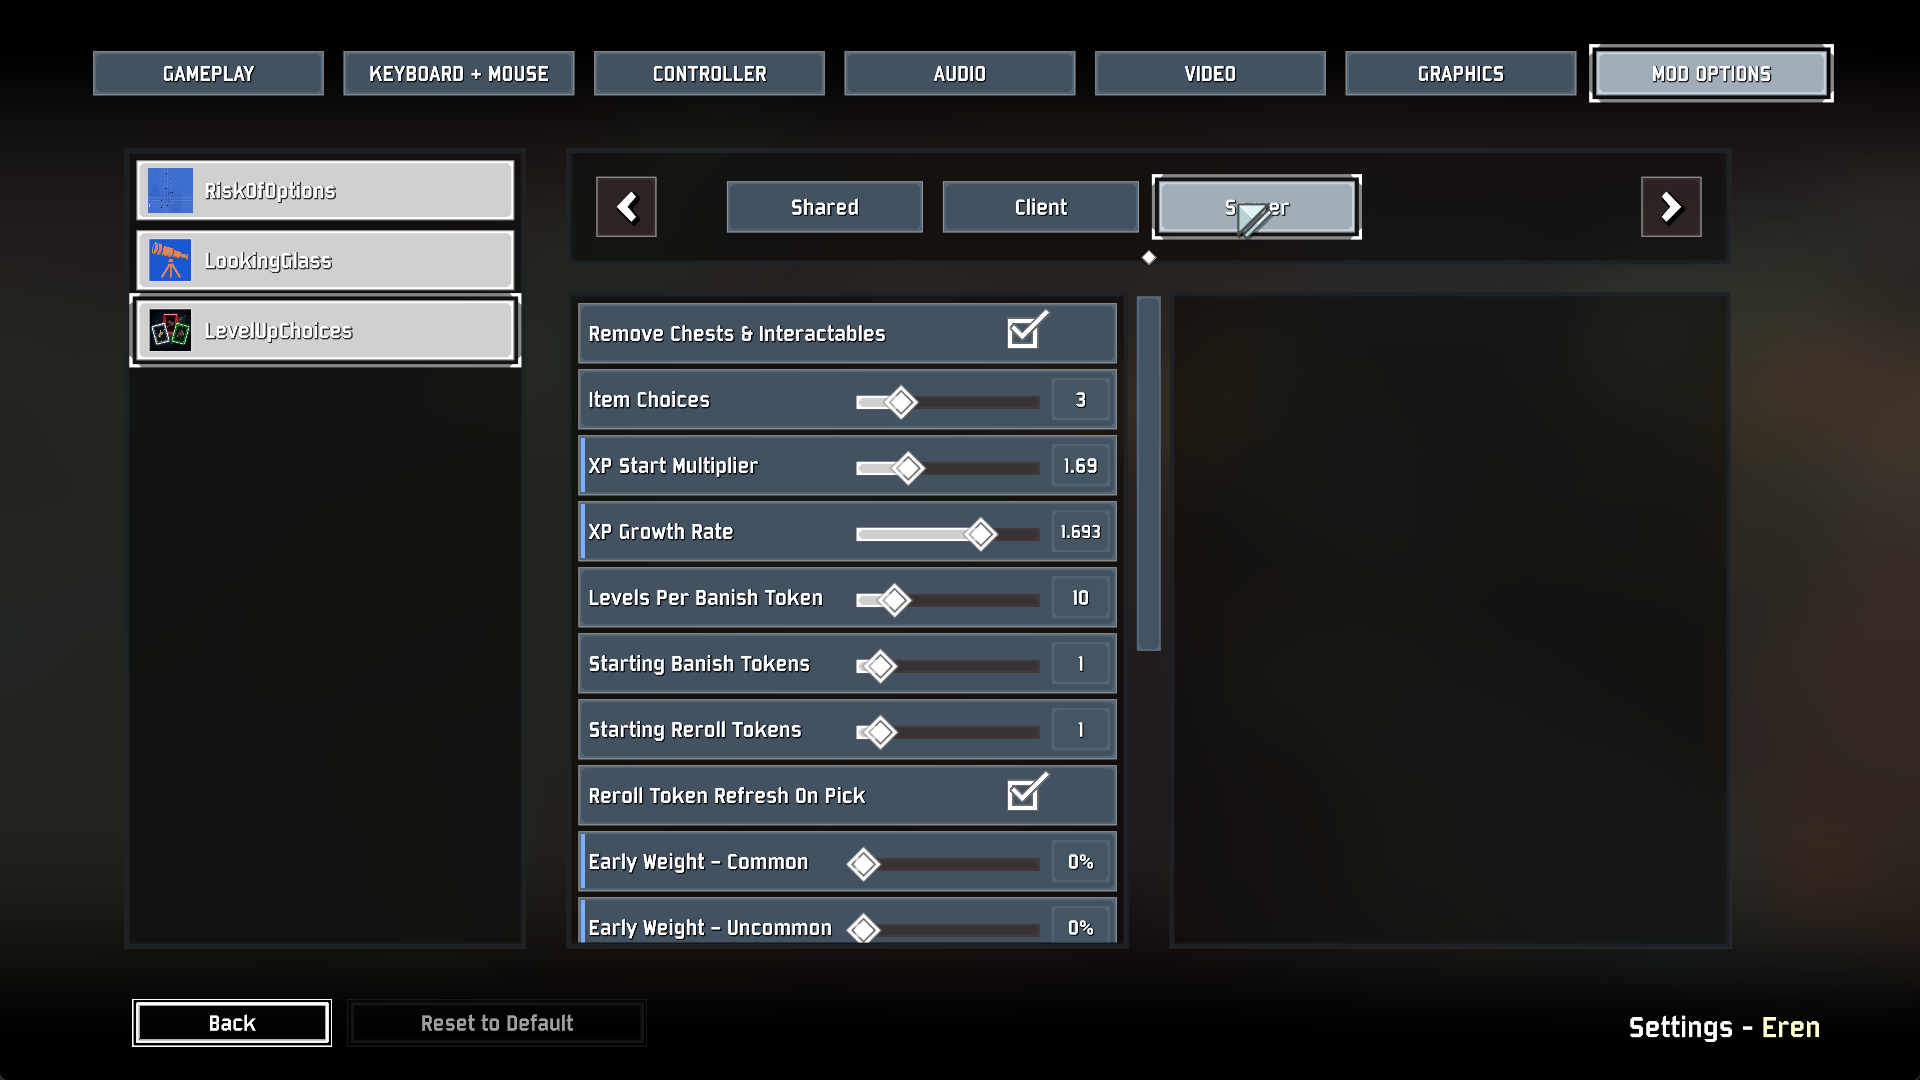
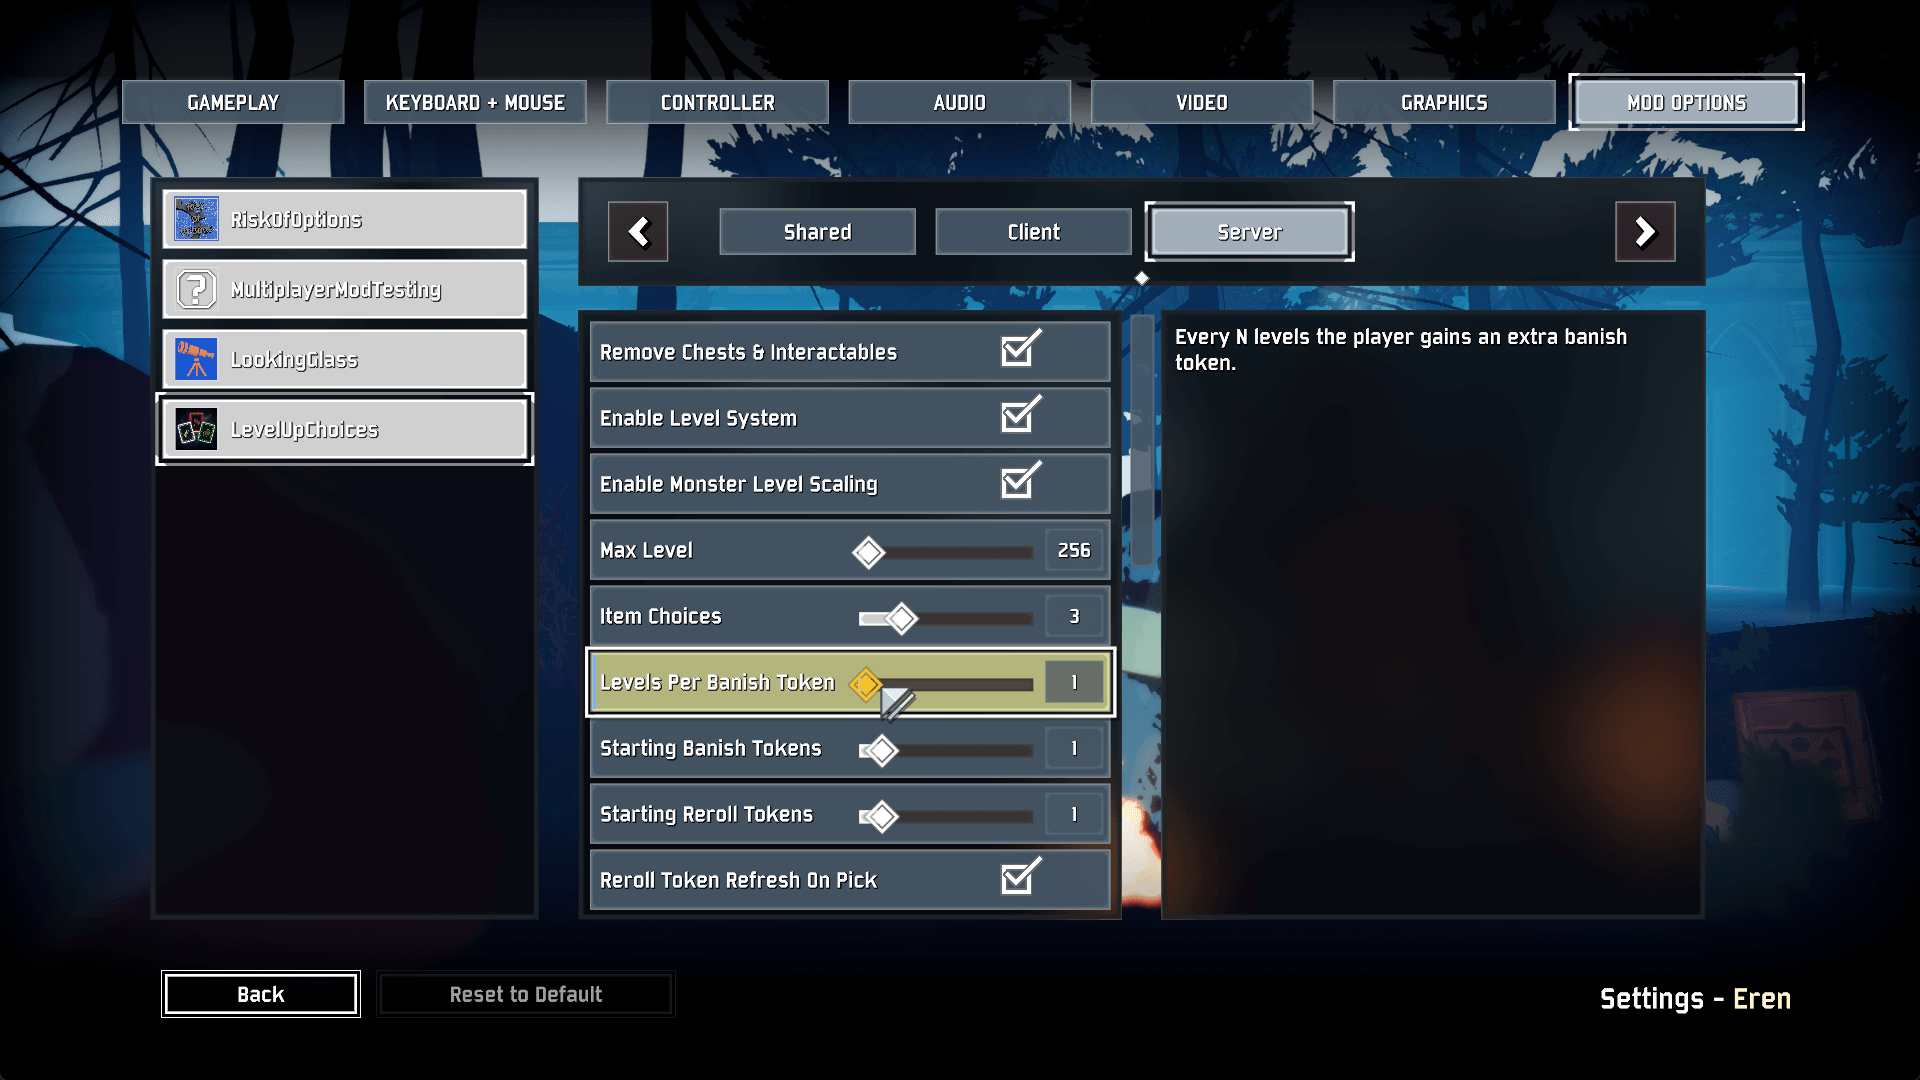
Update README and CHANGELOG

diff --git a/Thunderstore-LevelUpChoices/README.md b/Thunderstore-LevelUpChoices/README.md
@@ -2,7 +2,9 @@
 
 ![Demo - Item Select](https://raw.githubusercontent.com/karaeren/LevelUpChoices/refs/heads/main/other/demo_item_select.png)
 
-![Demo - Item Select](https://raw.githubusercontent.com/karaeren/LevelUpChoices/refs/heads/main/other/demo_config.png)
+![Demo - Artifact](https://raw.githubusercontent.com/karaeren/LevelUpChoices/refs/heads/main/other/demo_artifact.png)
+
+![Demo - Config](https://raw.githubusercontent.com/karaeren/LevelUpChoices/refs/heads/main/other/demo_config.png)
 
 This mod removes most of the normal item sources from stages — chests, shrines, 3D printers, scrappers, cleansing pools, lunar pods — and replaces them with a level-up item selection system.
 
@@ -22,9 +24,11 @@ Contact me at Discord (@erenkara) for any bugs, suggestions etc...
 
 Press **F3** at any time to open or close the selection menu.
 
+The items are chosen randomly based on the item tiers and your level. You can get lucky and proc a "synergy" item which will be synergistic to the items you own.
+
 ## Levels and XP
 
-XP scaling is eased to make it possible to reach higher levels, or even the max level. This way you'll have an adequate amount of items during each stage.
+You can configure the max level. By increasing the max level from 94, you can make each level easier or harder depending on the new max level.
 
 ## Mod Support
 
@@ -38,8 +42,7 @@ Each player has fully independent state — their own item options, their own ba
 
 ## TODO
 
-- Add "luck" integration.
-- Check if we can convert this into an artifact.
+- Everything is done! (for now)
 
 ## Changelog
 
@@ -50,6 +53,7 @@ Each player has fully independent state — their own item options, their own ba
 - Added luck calculation. Your positive or negative luck determines how many rolls each item slot will get and depending on the luck value, it will pick the best or worst items for you.
 - Added item similarity and synergy system. Items that are similar and synergistic to the items you own will have a higher chance of appearing in the item selection UI. Chances are configurable.
 - Added dotnet tooling and refactored some code.
+- Added max level configuration. Now instead of increasing the XP scaling, we increase the max level thus making each level easier or harder depending on the new max level.
 
 <details>
 <summary>Previous versions</summary>

diff --git a/README.md b/README.md
@@ -2,13 +2,13 @@
 
 ![Demo - Item Select](https://raw.githubusercontent.com/karaeren/LevelUpChoices/refs/heads/main/other/demo_item_select.png)
 
-![Demo - Item Select](https://raw.githubusercontent.com/karaeren/LevelUpChoices/refs/heads/main/other/demo_config.png)
-
 This mod removes most of the normal item sources from stages — chests, shrines, 3D printers, scrappers, cleansing pools, lunar pods — and replaces them with a level-up item selection system.
 
 Every time the team levels up, each player gets to pick from 3 items. Equipment barrels and Scavenger's Sacks still spawn as normal.
 
 Almost anything such as disabling interactables, exp multipliers, rates of items are configurable in the game. It fully supports items added by 3rd party mods. LookingGlass mod is highly recommended!
+
+Contact me at Discord (@erenkara) for any bugs, suggestions etc...
 
 ## How it works
 
@@ -20,9 +20,11 @@ Almost anything such as disabling interactables, exp multipliers, rates of items
 
 Press **F3** at any time to open or close the selection menu.
 
+The items are chosen randomly based on the item tiers and your level. You can get lucky and proc a "synergy" item which will be synergistic to the items you own.
+
 ## Levels and XP
 
-XP scaling is eased to make it possible to reach higher levels, or even the max level. This way you'll have an adequate amount of items during each stage.
+You can configure the max level. By increasing the max level from 94, you can make each level easier or harder depending on the new max level.
 
 ## Mod Support
 

diff --git a/Thunderstore-LevelUpChoices/CHANGELOG.md b/Thunderstore-LevelUpChoices/CHANGELOG.md
@@ -5,6 +5,7 @@
 - Added luck calculation. Your positive or negative luck determines how many rolls each item slot will get and depending on the luck value, it will pick the best or worst items for you.
 - Added item similarity and synergy system. Items that are similar and synergistic to the items you own will have a higher chance of appearing in the item selection UI. Chances are configurable.
 - Added dotnet tooling and refactored some code.
+- Added max level configuration. Now instead of increasing the XP scaling, we increase the max level thus making each level easier or harder depending on the new max level.
 
 ## 1.1.1
 
